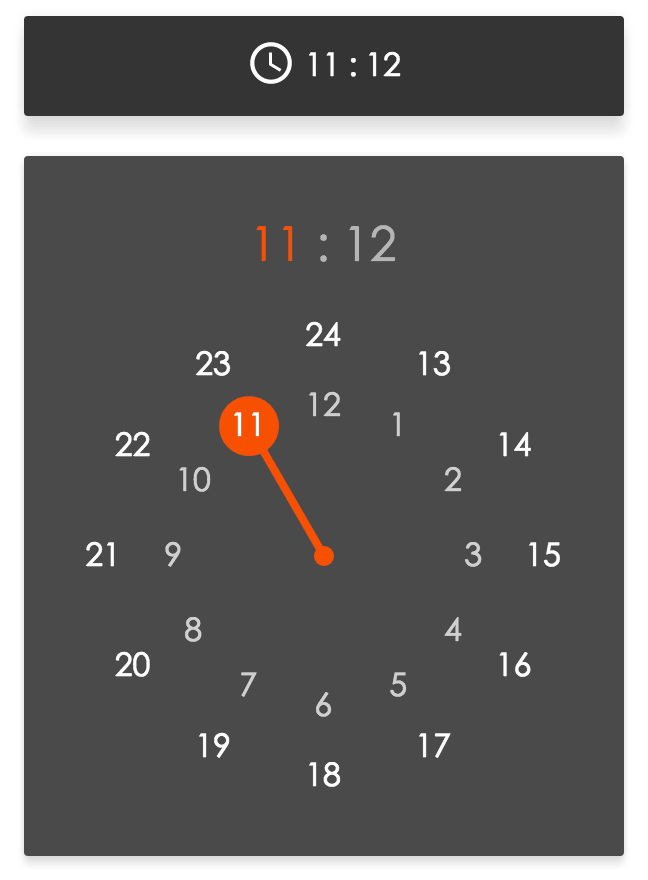
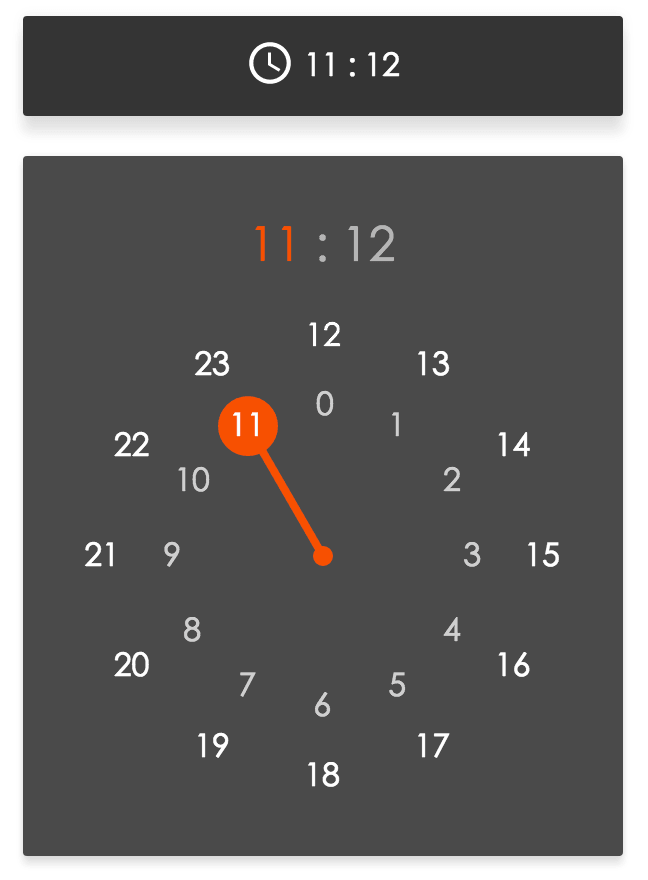
fix 24hours numbers

diff --git a/src/components/TwentyFourHoursMode.jsx b/src/components/TwentyFourHoursMode.jsx
@@ -105,8 +105,8 @@ class TwentyFourHoursMode extends React.Component {
     let time = step === 0 ? hour : minute;
     let splitNum = step === 0 ? 12 : 60;
     let minLength = step === 0 ? MIN_ABSOLUTE_POSITION : MAX_ABSOLUTE_POSITION;
-    let height = time <= splitNum ? minLength - POINTER_RADIUS : MAX_ABSOLUTE_POSITION - POINTER_RADIUS;
-    let top = time <= splitNum ? PICKER_RADIUS - minLength + POINTER_RADIUS : PICKER_RADIUS - MAX_ABSOLUTE_POSITION + POINTER_RADIUS;
+    let height = time < splitNum ? minLength - POINTER_RADIUS : MAX_ABSOLUTE_POSITION - POINTER_RADIUS;
+    let top = time < splitNum ? PICKER_RADIUS - minLength + POINTER_RADIUS : PICKER_RADIUS - MAX_ABSOLUTE_POSITION + POINTER_RADIUS;
     return [top, height];
   }
 

diff --git a/src/components/PickerPointGenerator.jsx b/src/components/PickerPointGenerator.jsx
@@ -42,10 +42,10 @@ const pickerPointGenerator = (type = "hour", mode = 24) => {
       const hours = parseInt(mode) === 24 ? HOURS : TWELVE_HOURS;
       return hours.map((h, index) => {
         let pointClass = index < 12 ? "picker_point point_inner" : "picker_point point_outter";
-        let angle = index < 12 ? 360 * (index + 1) / 12 : 360 * (index + 1 - 12) / 12;
+        let angle = index < 12 ? 360 * (index) / 12 : 360 * (index - 12) / 12;
         return (
           <PickerPoint
-            index={index + 1}
+            index={index}
             key={index}
             angle={angle}
             pointClass={pointClass}
